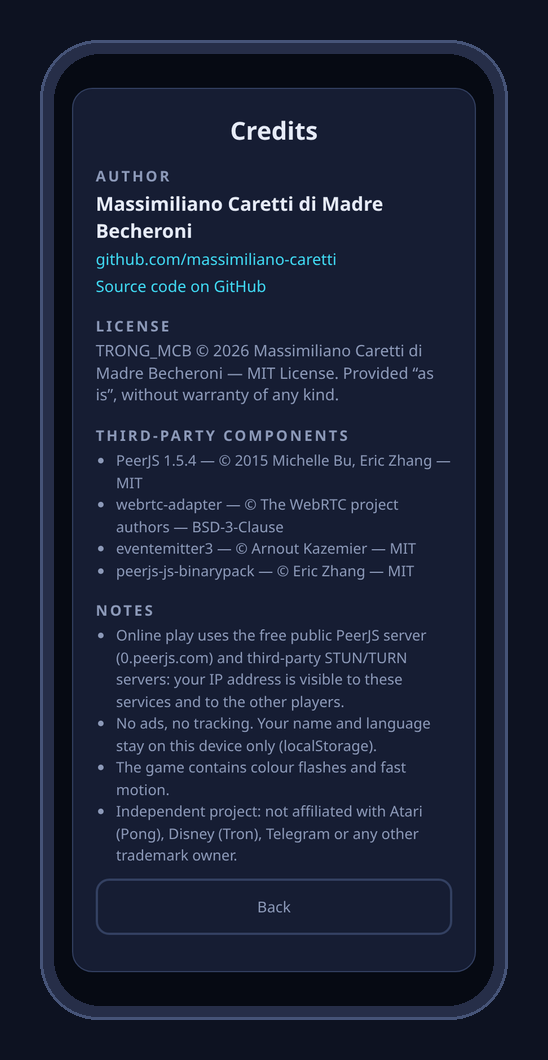
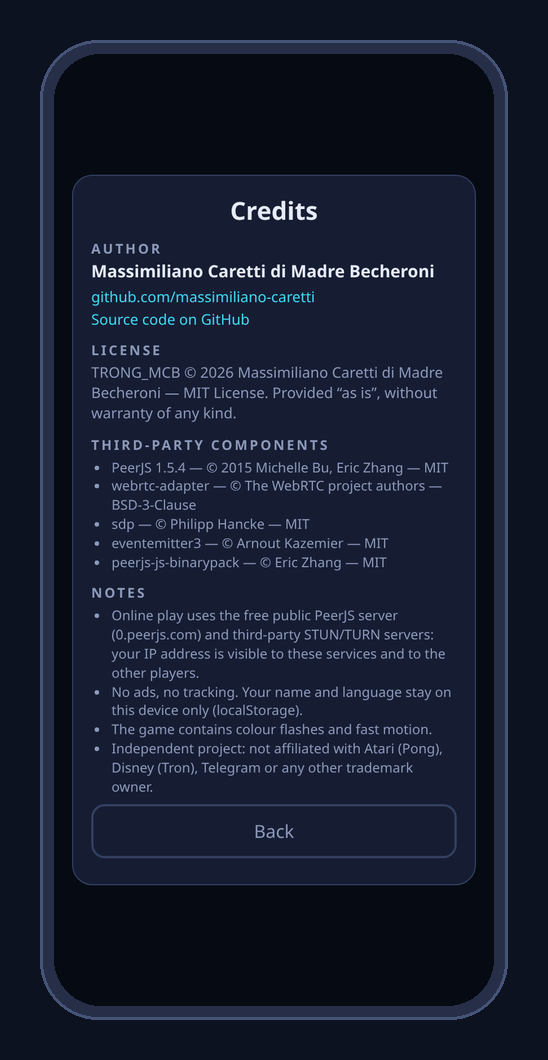
v1.1.0: selectable computer skill (Easy / Normal / Hard)
- Three CPU levels differing only in paddle speed, aiming error and reaction delay;
  Normal reproduces v1.0 behaviour exactly
- Level chosen in the menu, remembered on the device, shown on the READY panel;
  online, the host's level applies and is sent to guests
- Levels calibrated by simulation (60 min CPU-vs-CPU per level):
  save rate 89.8 % / 96.0 % / 97.8 %, non-overlapping 95 % CIs
- Menu layout re-tuned so every text fits from 320x568 to 1920x1080
- README: new section 3.2 with model and measurements; diagrams updated

Changed region(s): [[0.1241, 0.0623, 0.8686, 0.934]]

diff --git a/trong_mcb.html b/trong_mcb.html
@@ -81,6 +81,9 @@
   .langs button.cur { border-color: var(--p0); }
   .flag { width: 72px; height: 48px; border-radius: 6px; box-shadow: 0 0 0 1px rgba(255,255,255,0.18); display: block; }
   .minirow { display: flex; gap: 10px; margin: 6px 0 0; }
+  .seg { display: grid; grid-template-columns: repeat(3, 1fr); gap: 6px; margin: 2px 0 0; }
+  .seg button { margin: 0; padding: 9px 2px; font-size: 14px; font-weight: 600; color: var(--dim); }
+  .seg button.cur { border-color: var(--p1); color: var(--text); background: var(--btn-hi); }
   .minirow button { margin: 0; padding: 10px 8px; font-size: 15px; }
   .credits-line { margin: 14px 0 0; font-size: 13px; color: var(--dim); }
   a { color: var(--p0); text-decoration: none; }
@@ -91,7 +94,7 @@
   .credits .who { color: var(--text); font-size: 17px; font-weight: 700; }
   .credits ul { margin: 4px 0; padding-left: 18px; color: var(--dim); font-size: 13px; line-height: 1.5; }
   /* Schermi bassi in verticale: tutto il menu deve stare nello schermo senza scorrere. */
-  @media (max-height: 820px) {
+  @media (max-height: 900px) {
     .panel { padding: 16px 16px; }
     .logo-icon { width: 64px; height: 64px; margin-bottom: 2px; }
     h1.logo { font-size: 34px; }
@@ -103,7 +106,8 @@
     input.name { font-size: 17px; }
     .sep { margin: 10px 0 4px; font-size: 12px; }
     .minirow button { padding: 8px 6px; font-size: 14px; }
-    .credits-line { margin: 8px 0 0; font-size: 12px; }
+    .seg button { padding: 7px 2px; font-size: 13px; }
+    .credits-line { margin: 6px 0 0; font-size: 12px; }
     .credits h3 { margin: 10px 0 2px; font-size: 12px; }
     .credits p { font-size: 13px; margin: 2px 0; }
     .credits .who { font-size: 15px; }
@@ -128,6 +132,18 @@
     .credits ul { margin: 2px 0; }
     #bCreditsBack { margin: 6px 0 0; }
   }
+  @media (max-height: 600px) and (orientation: portrait) {
+    h1.logo { font-size: 24px; }
+    p { margin: 2px 0; }
+    .msg { min-height: 0; }
+    button { padding: 7px 8px; margin: 4px 0; }
+    .row { margin: 4px 0; }
+    .row button { padding: 7px 10px; }
+    input { padding: 5px; font-size: 17px; }
+    input.name { font-size: 16px; }
+    .sep { margin: 5px 0 2px; font-size: 11px; }
+    .seg button, .minirow button { padding: 6px 2px; }
+  }
   #bCreditsBack { position: sticky; bottom: -16px; background: var(--panel); }
   @media (max-height: 520px) and (orientation: landscape) {
     #ui { padding: 8px; }
@@ -146,6 +162,7 @@
     #pMenu h1.logo { display: inline-block; margin-right: 12px; }
     #pMenu p[data-i18n="tagline"] { display: inline-block; }
     .minirow button { padding: 7px 6px; font-size: 14px; }
+    .seg button { padding: 6px 2px; font-size: 13px; }
     .credits-line { margin: 0; font-size: 12px; text-align: left; }
     #pMenu .foot { display: flex; align-items: center; gap: 14px; margin-top: 4px; }
     #pMenu .foot .minirow { flex: 0 0 300px; margin: 0; }
@@ -247,6 +264,12 @@
       <div class="sep" data-i18n="yourName">Il tuo nome</div>
       <input class="name" id="nameIn" maxlength="13" placeholder="max 13 caratteri" data-i18n-ph="namePh" autocomplete="nickname" spellcheck="false" autocapitalize="words">
       <p class="count" id="nameCount">0/13</p>
+      <div class="sep" data-i18n="cpuSkill">Bravura del computer</div>
+      <div class="seg" id="cpuSeg" role="radiogroup">
+        <button data-cpu="easy" data-i18n="lvEasy" role="radio">Facile</button>
+        <button data-cpu="normal" data-i18n="lvNormal" role="radio">Normale</button>
+        <button data-cpu="hard" data-i18n="lvHard" role="radio">Difficile</button>
+      </div>
     </div>
     <div>
       <div class="sep" data-i18n="online">Online, fino a 3 telefoni</div>
@@ -387,6 +410,8 @@ const I18N = {
     stop: "STOP", ready2: "PRONTI?", tapStart: "Tocca AVVIA per giocare",
     yourSide1: "Il tuo lato è quello in basso:", yourSide2: "trascina il dito a destra e a sinistra",
     cpuSeats: "I posti liberi li gioca il computer",
+    cpuSkill: "Bravura del computer", lvEasy: "Facile", lvNormal: "Normale", lvHard: "Difficile",
+    cpuLevelLine: (l) => "Livello del computer: " + l,
     roomCode: "CODICE PARTITA", tapInvite: "Tocca INVITA per mandare il codice",
     noFriends: "Nessun amico collegato", friends: (n) => n + (n === 1 ? " amico collegato" : " amici collegati"),
     portrait: "Si gioca meglio col telefono in verticale",
@@ -436,6 +461,8 @@ const I18N = {
     stop: "PAUSED", ready2: "READY?", tapStart: "Tap START to play",
     yourSide1: "Your side is the bottom one:", yourSide2: "drag your finger left and right",
     cpuSeats: "Empty seats are played by the computer",
+    cpuSkill: "Computer skill", lvEasy: "Easy", lvNormal: "Normal", lvHard: "Hard",
+    cpuLevelLine: (l) => "Computer level: " + l,
     roomCode: "GAME CODE", tapInvite: "Tap INVITE to send the code",
     noFriends: "No friends connected", friends: (n) => n + (n === 1 ? " friend connected" : " friends connected"),
     portrait: "Best played with the phone upright",
@@ -482,7 +509,17 @@ const INR = R / 2;                     // distanza centro-lato
 const SIDE = R * Math.sqrt(3);         // lunghezza di un lato
 const PL = 96, PT = 12;                // lunghezza e spessore racchetta
 const PAD_LIMIT = SIDE / 2 - PL / 2 - 18;
-const TOUCH_SPEED = 1500, KEY_SPEED = 520, CPU_SPEED = 330;
+const TOUCH_SPEED = 1500, KEY_SPEED = 520;
+// Bravura della CPU / CPU skill levels.
+//  speed: velocità massima della racchetta (u/s)
+//  err:   errore di mira massimo (±u), ri-estratto a ogni rimbalzo
+//  react: tempo di reazione dopo ogni rimbalzo o servizio (s)
+// "normal" coincide con il comportamento della versione 1.0.
+const CPU_LEVELS = {
+  easy:   { speed: 260, err: 55, react: 0.20, key: "lvEasy" },
+  normal: { speed: 330, err: 30, react: 0,    key: "lvNormal" },
+  hard:   { speed: 560, err: 12, react: 0,    key: "lvHard" },
+};
 const BALL_R = 8;
 const BALL_START = 260, BALL_SPEEDUP = 1.05, BALL_MAX = 760;
 const LIVES = 5;
@@ -577,6 +614,10 @@ let mode = "menu";
 let mySeat = 0;
 let seats = ["host", "cpu", "cpu"];       // chi controlla ogni lato: host | guest | cpu
 let names = ["", "CPU", "CPU"];            // nome mostrato per ogni lato
+let cpuLevel = "normal";                   // scelta nel menu (usata da solo / host)
+try { const v = localStorage.getItem("trong-cpu"); if (CPU_LEVELS[v]) cpuLevel = v; } catch (e) {}
+let shownLevel = cpuLevel;                 // livello mostrato (per l'ospite: quello dell'host)
+const CPU = () => CPU_LEVELS[cpuLevel];
 
 // ---- Nome del giocatore (max 13 caratteri: lettere, numeri, spazio, ' . _ -) ----
 const NAME_MAX = 13;
@@ -616,6 +657,7 @@ function newGame() {
     lastLost: -1,
     events: [],
     cpuErr: [0, 0, 0],
+    cpuWait: 0,
   };
 }
 const alive = (i) => g.lives[i] > 0;
@@ -646,14 +688,14 @@ function aimAt(targets, speed, awayFrom) {
 function serve() {
   const live = [0, 1, 2].filter(alive);
   aimAt(live, BALL_START);
-  g.cpuErr = [0, 1, 2].map(() => rand(-30, 30));
+  g.cpuErr = [0, 1, 2].map(() => rand(-CPU().err, CPU().err)); g.cpuWait = CPU().react;
 }
 /** Rimbalzo: riparte a caso verso uno degli altri due lati. */
 function randomBounce(fromSide, isWall) {
   const others = [0, 1, 2].filter((j) => j !== fromSide);
   const speed = Math.min(Math.hypot(g.ball.vx, g.ball.vy) * BALL_SPEEDUP, BALL_MAX);
   aimAt(others, speed, fromSide);
-  g.cpuErr = [0, 1, 2].map(() => rand(-30, 30));
+  g.cpuErr = [0, 1, 2].map(() => rand(-CPU().err, CPU().err)); g.cpuWait = CPU().react;
   emit(isWall ? "wall" : "hit");
 }
 
@@ -732,13 +774,15 @@ function cpuMove(i, dt) {
     const qx = b.x + b.vx * tt, qy = b.y + b.vy * tt;
     target = (qx - s.mid.x) * s.t.x + (qy - s.mid.y) * s.t.y + g.cpuErr[i];
   }
+  if (g.cpuWait > 0) return;                       // sta ancora "reagendo"
   target = clamp(target, -PAD_LIMIT, PAD_LIMIT);
-  const step = CPU_SPEED * dt;
+  const step = CPU().speed * dt;
   g.pads[i] += clamp(target - g.pads[i], -step, step);
 }
 
 function simulate(dt) {
   g.flash = Math.max(0, g.flash - dt * 2.5);
+  g.cpuWait = Math.max(0, g.cpuWait - dt);
   for (let i = 0; i < 3; i++) if (seats[i] === "cpu" && alive(i)) cpuMove(i, dt);
   if (g.state === "countdown") {
     g.countdown -= dt;
@@ -924,7 +968,7 @@ function hostBroadcast(now) {
   const msg = {
     t: "s", st: g.state, cd: g.countdown, fl: g.flash,
     b: [b.x, b.y, b.vx, b.vy], p: g.pads, l: g.lives, se: seats, nm: names, ev: g.events,
-    nt: noticeT > 0 ? notice : "",
+    nt: noticeT > 0 ? notice : "", cl: cpuLevel,
   };
   for (let i = 1; i < 3; i++) netSend(guestConns[i], msg);
   g.events = [];
@@ -984,6 +1028,7 @@ function onGuestData(msg) {
   [b.x, b.y, b.vx, b.vy] = msg.b;
   if (Array.isArray(msg.ev)) msg.ev.forEach(playEvent);
   if (msg.nt && msg.nt !== notice) showNotice(msg.nt);
+  if (CPU_LEVELS[msg.cl]) shownLevel = msg.cl;
 }
 function guestSend(now) {
   if (now - lastSend < NET_SEND_MS) return;
@@ -1027,7 +1072,7 @@ function goMenu() { mode = "menu"; clearTimeout(joinTimer); clearTimeout(hostTim
 function withName(fn) { const n = requireName(); if (!n) return; myName = n; initAudio(); fn(); }
 document.getElementById("bSolo").onclick = () => withName(() => {
   closeNet();
-  mode = "solo"; mySeat = 0; seats = ["host", "cpu", "cpu"]; names = [myName, "CPU", "CPU"]; roomCode = "";
+  mode = "solo"; mySeat = 0; shownLevel = cpuLevel; seats = ["host", "cpu", "cpu"]; names = [myName, "CPU", "CPU"]; roomCode = "";
   g = newGame(); hideUI();
 });
 document.getElementById("bHost").onclick = () => withName(startHost);
@@ -1041,6 +1086,18 @@ for (const b of document.querySelectorAll("[data-lang]")) b.onclick = () => {
   applyLang(); initAudio(); showPanel("pMenu");
 };
 document.getElementById("bLang").onclick = () => showPanel("pLang");
+function markCpuLevel() {
+  for (const b of document.querySelectorAll("[data-cpu]")) {
+    const on = b.dataset.cpu === cpuLevel;
+    b.classList.toggle("cur", on); b.setAttribute("aria-checked", on ? "true" : "false");
+  }
+}
+for (const b of document.querySelectorAll("[data-cpu]")) b.onclick = () => {
+  cpuLevel = shownLevel = b.dataset.cpu;
+  try { localStorage.setItem("trong-cpu", cpuLevel); } catch (e) {}
+  markCpuLevel();
+};
+markCpuLevel();
 document.getElementById("bCredits").onclick = () => showPanel("pCredits");
 document.getElementById("bCreditsBack").onclick = () => showPanel("pMenu");
 // All'apertura si sceglie la lingua / On open the user picks the language.
@@ -1170,7 +1227,7 @@ function draw() {
   if (g.state === "stopped") {
     // Pannello scuro al centro, così il testo non si mescola con il campo.
     const hasCode = mode === "host";
-    const top = 250, h = hasCode ? 440 : 250;
+    const top = 250, h = hasCode ? 462 : (seats.some((s, i) => s === "cpu" && i !== mySeat) ? 272 : 250);
     ctx.fillStyle = "rgba(0,0,0,0.45)"; ctx.fillRect(0, 128, VW, VH - 128);
     roundRect(40, top, VW - 80, h, 18); ctx.fillStyle = "rgba(13,18,33,0.94)"; ctx.fill();
     ctx.lineWidth = 2; ctx.strokeStyle = C.line; ctx.stroke();
@@ -1178,7 +1235,11 @@ function draw() {
     text(T("tapStart"), VW / 2, top + 108, 24, C.text, "600", VW - 110);
     text(T("yourSide1"), VW / 2, top + 150, 19, C.dim, "500", VW - 110);
     text(T("yourSide2"), VW / 2, top + 176, 19, C.dim, "500", VW - 110);
-    if (!hasCode && seats.some((s, i) => s === "cpu" && i !== mySeat)) text(T("cpuSeats"), VW / 2, top + 214, 17, C.dim, "500", VW - 110);
+    const lvText = T("cpuLevelLine")(T(CPU_LEVELS[mode === "guest" ? shownLevel : cpuLevel].key));
+    if (!hasCode && seats.some((s, i) => s === "cpu" && i !== mySeat)) {
+      text(T("cpuSeats"), VW / 2, top + 206, 17, C.dim, "500", VW - 110);
+      text(lvText, VW / 2, top + 230, 17, COLORS[1], "600", VW - 110);
+    }
     if (hasCode) {
       const humans = seats.filter((s) => s === "guest").length;
       text(T("roomCode"), VW / 2, top + 240, 16, C.dim, "600");
@@ -1186,7 +1247,10 @@ function draw() {
       text(T("tapInvite"), VW / 2, top + 333, 17, C.dim, "500", VW - 110);
       text(humans === 0 ? T("noFriends") : T("friends")(humans),
            VW / 2, top + 375, 18, humans ? COLORS[0] : C.dim, "600");
-      if (humans < 2) text(T("cpuSeats"), VW / 2, top + 403, 16, C.dim, "500", VW - 110);
+      if (humans < 2) {
+        text(T("cpuSeats"), VW / 2, top + 400, 16, C.dim, "500", VW - 110);
+        text(lvText, VW / 2, top + 422, 16, COLORS[1], "600", VW - 110);
+      }
     }
     if (window.innerWidth > window.innerHeight * 1.1) text(T("portrait"), VW / 2, VH - 30, 17, COLORS[1], "600", VW - 40);
   } else if (g.state === "countdown") {

diff --git a/README.md b/README.md
@@ -39,8 +39,9 @@
 
 | | |
 |---|---|
-| **What you get** | One file, `trong_mcb.html` (≈ 188 KB). Open it in a browser and play. |
+| **What you get** | One file, `trong_mcb.html` (≈ 187 KB). Open it in a browser and play. |
 | **Who plays** | 1 human vs 2 CPU · 2 humans + 1 CPU · 3 humans. Empty seats are always filled by the CPU. |
+| **Computer skill** | Three levels — Easy, Normal, Hard — measured, not guessed (§3.2). |
 | **Where it runs** | Any modern browser with Canvas 2D; online play also needs WebRTC. Designed for phones held upright; works with a keyboard on desktop. |
 | **Network needed?** | No for single player. Yes for online play (to find each other; the game data then flows directly between phones when possible). |
 | **Languages** | Italian and English, chosen with a flag every time the game opens. |
@@ -91,11 +92,39 @@ Upload the single file to any static host (GitHub Pages, Netlify, an S3 bucket, 
 > **Example.** On a train with no signal: open the file → 🇬🇧 → name `Ada` → **Play against the computer** → **START**.
 > You defend the bottom side; the orange and purple sides are CPU players.
 
-The CPU predicts where the ball will cross its side and moves there at 330 u/s, with a random aiming error of up to ±30 u that is re-drawn at every bounce, so it is beatable.
+The CPU predicts where the ball will cross its side and moves its paddle there. How fast it moves, how precisely it aims and how quickly it reacts depend on the skill level (§3.2).
+</details>
+
+<details open>
+<summary><b>3.2 Computer skill: Easy · Normal · Hard</b></summary>
+
+> **Example.** A child plays on **Easy**; an experienced player picks **Hard**. In the menu, tap the level under *Computer skill* before starting. The choice is remembered on the device and shown on the *READY?* panel (`Computer level: Hard`).
+
+In an online game the level chosen by the **host** applies, because the host's phone runs the CPU seats; guests see it on their *READY?* panel.
+
+**Model.** Each level changes three parameters of the same algorithm — nothing else:
+
+| Level | Max paddle speed | Aiming error (re-drawn at every bounce) | Reaction delay after each bounce |
+|---|---|---|---|
+| Easy | 260 u/s | ±55 u | 0.20 s |
+| Normal *(= behaviour of v1.0)* | 330 u/s | ±30 u | 0 s |
+| Hard | 560 u/s | ±12 u | 0 s |
+
+For scale: a paddle hit succeeds when the paddle centre is within ±53.6 u of the ball, so aiming errors above that value cause misses even with a perfectly placed paddle.
+
+**Measurement.** The levels were calibrated by simulation, not by feel. Three CPUs of the same level play each other for 60 minutes of game time (216 000 physics steps of 1/60 s, served from the real game code in headless Chromium). *Save rate* = paddle hits ÷ (paddle hits + lives lost).
+
+| Level | Saves | Misses | Save rate | 95 % CI (Wilson) | Mean rally (hits per life lost) |
+|---|---:|---:|---:|---|---:|
+| Easy | 3 709 | 419 | 89.8 % | 88.9 – 90.7 % | 8.8 |
+| Normal | 5 660 | 236 | 96.0 % | 95.5 – 96.5 % | 23.9 |
+| Hard | 6 735 | 154 | 97.8 % | 97.4 – 98.1 % | 43.7 |
+
+The confidence intervals do not overlap, so the three levels are measurably distinct; mean rally length roughly doubles or triples from one level to the next. These figures describe CPU-vs-CPU play; how a level *feels* against a human depends on that human's skill and device.
 </details>
 
 <details>
-<summary><b>3.2 Online game for up to three phones</b></summary>
+<summary><b>3.3 Online game for up to three phones</b></summary>
 
 > **Example.** Ada, Ben and Cleo are in different cities.
 > 1. Ada taps **Create game** → the field shows the code, e.g. `K7QM`.
@@ -107,7 +136,7 @@ If only Ben joins, the third side is played by the CPU. If Ben leaves, the CPU t
 </details>
 
 <details>
-<summary><b>3.3 Sharing the game code</b></summary>
+<summary><b>3.4 Sharing the game code</b></summary>
 
 **INVITE** uses, in order: the system share sheet (Web Share API) → copy to clipboard → a Telegram share link as last resort.
 
@@ -115,7 +144,7 @@ If only Ben joins, the third side is played by the CPU. If Ben leaves, the CPU t
 </details>
 
 <details>
-<summary><b>3.4 Bilingual interface (Italian / English)</b></summary>
+<summary><b>3.5 Bilingual interface (Italian / English)</b></summary>
 
 Every launch starts with a flag screen. The choice translates menus, in-game text, notices, error messages and the invitation text. It is remembered on the device and can be changed from **Lingua / Language** in the menu.
 
@@ -127,13 +156,13 @@ Every launch starts with a flag screen. The choice translates menus, in-game tex
 </details>
 
 <details>
-<summary><b>3.5 Elimination and walls</b></summary>
+<summary><b>3.6 Elimination and walls</b></summary>
 
 Each player has 5 lives. At zero, that side turns into a solid grey wall and the ball rebounds from it; the eliminated player keeps watching. The last player with lives wins; **START** begins a rematch.
 </details>
 
 <details>
-<summary><b>3.6 Credits screen inside the app</b></summary>
+<summary><b>3.7 Credits screen inside the app</b></summary>
 
 <img src="docs/img/credits.png" alt="In-app credits panel" width="300" align="right">
 
@@ -151,6 +180,8 @@ Each player has 5 lives. At zero, that side turns into a solid grey wall and the
                        └── Lingua/Language ──┘  ├──► Join (4-char code) ─────────┘       │
                                                 └──► Credits                     MENU ◄──┘
 ```
+
+In the menu, the **name** (required, max 13 characters) and the **computer skill** (Easy · Normal · Hard) apply to whatever mode you start next. Both are remembered on the device.
 
 ### 4.2 Controls
 
@@ -251,7 +282,8 @@ All values come from the constants block of `trong_mcb.html`.
 | `PL × PT` | 96 × 12 | Paddle length × thickness |
 | `BALL_R` | 8 | Ball radius |
 | `BALL_START` / `BALL_SPEEDUP` / `BALL_MAX` | 260 / ×1.05 / 760 | Serve speed, growth per contact, cap (u/s) |
-| `TOUCH_SPEED` / `KEY_SPEED` / `CPU_SPEED` | 1500 / 520 / 330 | Paddle speeds (u/s) |
+| `TOUCH_SPEED` / `KEY_SPEED` | 1500 / 520 | Human paddle speeds (u/s) |
+| `CPU_LEVELS` | easy · normal · hard | CPU speed, aiming error and reaction per level (table in §3.2) |
 | `LIVES` | 5 | Lives per player |
 | `COUNTDOWN` | 1.5 s | Pause before each serve |
 | `NET_SEND_MS` | 20 ms | Send interval (50 Hz) in both directions |
@@ -269,6 +301,7 @@ All values come from the constants block of `trong_mcb.html`.
 ```js
 // In the browser console, after starting "Play against the computer":
 seats = ["cpu", "cpu", "cpu"];   // let the CPU play all three sides (demo / testing)
+cpuLevel = "hard";               // "easy" | "normal" | "hard"
 g.lives                          // → [5, 5, 5]   remaining lives per side
 g.state                          // → "playing" | "countdown" | "stopped" | "over"
 ```
@@ -298,7 +331,8 @@ Listed so that nobody has to discover them by surprise.
 - [ ] **Anti-cheat** — the host is trusted; guest messages are sanitised and clamped, but a modified host could alter the game.
 - [ ] **Notices in mixed-language games** — notices generated by the host are sent to guests in the host's language.
 - [ ] **Accessibility** — the field is a `<canvas>` with no screen-reader description, no colour-blind palette and no reduced-motion mode.
-- [ ] **Settings** — no options for difficulty, lives, speed, sound or vibration.
+- [ ] **More settings** — computer skill is selectable; lives, ball speed, sound and vibration are not.
+- [ ] **Per-seat skill** — all CPU seats in a game share one level.
 - [ ] **Installable app (PWA)** — no manifest or service worker.
 - [ ] **Automated test suite** — this release was checked with scripted headless-Chromium runs (both languages, nine screen sizes, no JavaScript errors), but no test suite is included in the repository.
 - [ ] **Cross-browser verification** — Safari and Firefox are expected to work (standard APIs only) but were not systematically tested for this release.
@@ -344,7 +378,7 @@ Design, code, artwork, logo and documentation.
   author  = {Caretti di Madre Becheroni, Massimiliano},
   title   = {TRONG\_MCB: a three-player paddle game on a triangular field},
   year    = {2026},
-  version = {1.0.0},
+  version = {1.1.0},
   url     = {https://github.com/massimiliano-caretti/TRONG_MCB},
   license = {MIT}
 }

diff --git a/THIRD_PARTY_NOTICES.md b/THIRD_PARTY_NOTICES.md
@@ -1,7 +1,7 @@
 # Third-party notices
 
 `trong_mcb.html` embeds, unmodified and minified, the browser build of **PeerJS 1.5.4**
-(lines 177–185 of the file). That build bundles the packages listed below.
+(lines 194–202 of the file). That build bundles the packages listed below.
 Each component remains under its own license; all of them are permissive and
 compatible with the MIT License used by TRONG_MCB.
 
